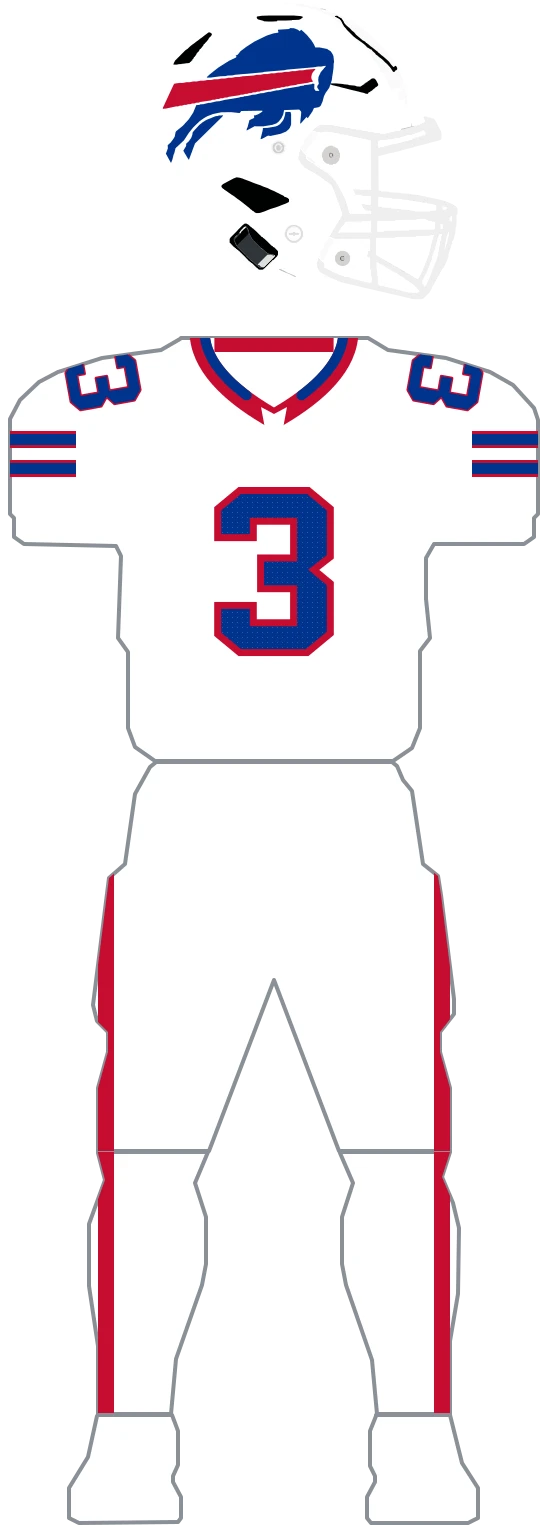
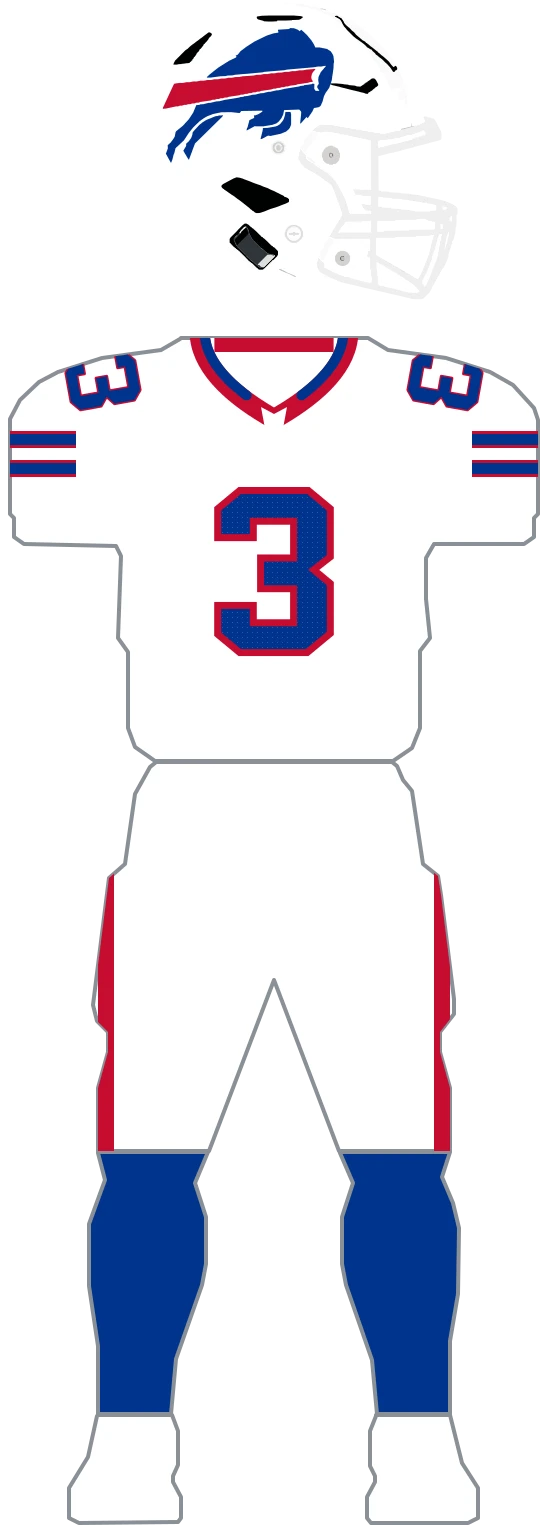
fix(uniforms): separate Bills pants and socks

Changed region(s): [[0.6071, 0.7349, 0.8196, 0.9186], [0.1518, 0.7349, 0.3643, 0.9186]]

diff --git a/web/lib/uniforms/teams/bills/parts.ts b/web/lib/uniforms/teams/bills/parts.ts
@@ -7,11 +7,9 @@
 
 import { BILLS_HELMET_DECAL_BUFFALO_PATH, BILLS_HELMET_DECAL_STRIPE_PATH } from './source';
 import { expandHelmet } from '../core/helmet-spec';
+import { expandPants, expandSocks } from '../core/pants-spec';
 import { placed } from '../core/marks';
 import type { UniformPart } from '../core/parts';
-
-const PANTS_STRIPE_PATH_LEFT = 'M118,807 H134 V1462 H118 Z';
-const PANTS_STRIPE_PATH_RIGHT = 'M454,807 H470 V1462 H454 Z';
 
 // The white shell with the navy buffalo and red diagonal stripe, shared by home and away.
 const HELMET_WHITE: UniformPart = expandHelmet('bills-white-helmet', {
@@ -85,54 +83,22 @@ const HELMET_ICE: UniformPart = expandHelmet('bills-ice-helmet', {
 });
 
 // Home pants, royal, with the red side stripe.
-const PANTS_BLUE: UniformPart = {
-  base: 'navy',
-  layers: [
-    {
-      id: 'generic-pants-stripe-left',
-      surface: 'leg-left',
-      d: PANTS_STRIPE_PATH_LEFT,
-      clip: true,
-      kind: 'fill',
-      fill: 'red',
-    },
-    {
-      id: 'generic-pants-stripe-right',
-      surface: 'leg-right',
-      d: PANTS_STRIPE_PATH_RIGHT,
-      clip: true,
-      kind: 'fill',
-      fill: 'red',
-    },
-  ],
-};
+const PANTS_BLUE = expandPants('bills-blue-pants', {
+  body: 'navy',
+  stripes: { position: 'center', bands: [{ color: 'red', size: 'm' }], gap: 'none' },
+});
 
 // White pants are the canonical away option and the alternate home option; their red stripe is
 // part of the pants so this option remains correct when paired with either standard jersey.
-const PANTS_WHITE: UniformPart = {
-  base: 'white',
-  layers: [
-    {
-      id: 'generic-pants-stripe-left',
-      surface: 'leg-left',
-      d: PANTS_STRIPE_PATH_LEFT,
-      clip: true,
-      kind: 'fill',
-      fill: 'red',
-    },
-    {
-      id: 'generic-pants-stripe-right',
-      surface: 'leg-right',
-      d: PANTS_STRIPE_PATH_RIGHT,
-      clip: true,
-      kind: 'fill',
-      fill: 'red',
-    },
-  ],
-};
+const PANTS_WHITE = expandPants('bills-white-pants', {
+  body: 'white',
+  stripes: { position: 'center', bands: [{ color: 'red', size: 'm' }], gap: 'none' },
+});
 
 // Rivalries pants, white, unbanded.
 const PANTS_RIVALRIES: UniformPart = { base: 'white', layers: [] };
+const SOCKS_NAVY = expandSocks('bills-navy-socks', { color: 'navy' });
+const SOCKS_WHITE = expandSocks('bills-white-socks', { color: 'white' });
 
 export const BILLS_CONSTRUCTION = {
   teamId: 'bills',
@@ -148,11 +114,12 @@ export const BILLS_CONSTRUCTION = {
   },
   helmets: { white: HELMET_WHITE, ice: HELMET_ICE },
   pants: { blue: PANTS_BLUE, white: PANTS_WHITE, rivalries: PANTS_RIVALRIES },
+  socks: { navy: SOCKS_NAVY, white: SOCKS_WHITE },
   kits: {
     // The 2025 composite shows both blue and white trousers with each modern top;
     // canonical-first preserves the existing blue-over-blue and white-over-white rasters.
-    home: { helmet: 'white', jersey: 'blue', pants: ['blue', 'white'] },
-    away: { helmet: 'white', jersey: 'white', pants: ['white', 'blue'] },
-    'rivalries-2025': { helmet: 'ice', jersey: 'rivalries', pants: 'rivalries' },
+    home: { helmet: 'white', jersey: 'blue', pants: ['blue', 'white'], socks: 'navy' },
+    away: { helmet: 'white', jersey: 'white', pants: ['white', 'blue'], socks: 'navy' },
+    'rivalries-2025': { helmet: 'ice', jersey: 'rivalries', pants: 'rivalries', socks: 'white' },
   },
 };

diff --git a/web/lib/uniforms/teams/bills/parts.test.ts b/web/lib/uniforms/teams/bills/parts.test.ts
@@ -1,0 +1,14 @@
+import { describe, expect, it } from 'vitest';
+import { BILLS_UNIFORMS_FROM_PARTS } from './index';
+
+describe('Bills pants and socks', () => {
+  it('keeps the pants stripe above the hem and gives the home kit solid royal socks', () => {
+    const home = BILLS_UNIFORMS_FROM_PARTS.kits.home;
+
+    expect(home.socksColor).toBe('#00338D');
+    expect(home.layers?.filter((layer) => layer.surface.startsWith('leg-'))).not.toEqual(
+      expect.arrayContaining([expect.objectContaining({ d: expect.stringContaining('V1462') })])
+    );
+    expect(home.layers?.filter((layer) => layer.surface.startsWith('sock-'))).toEqual([]);
+  });
+});
